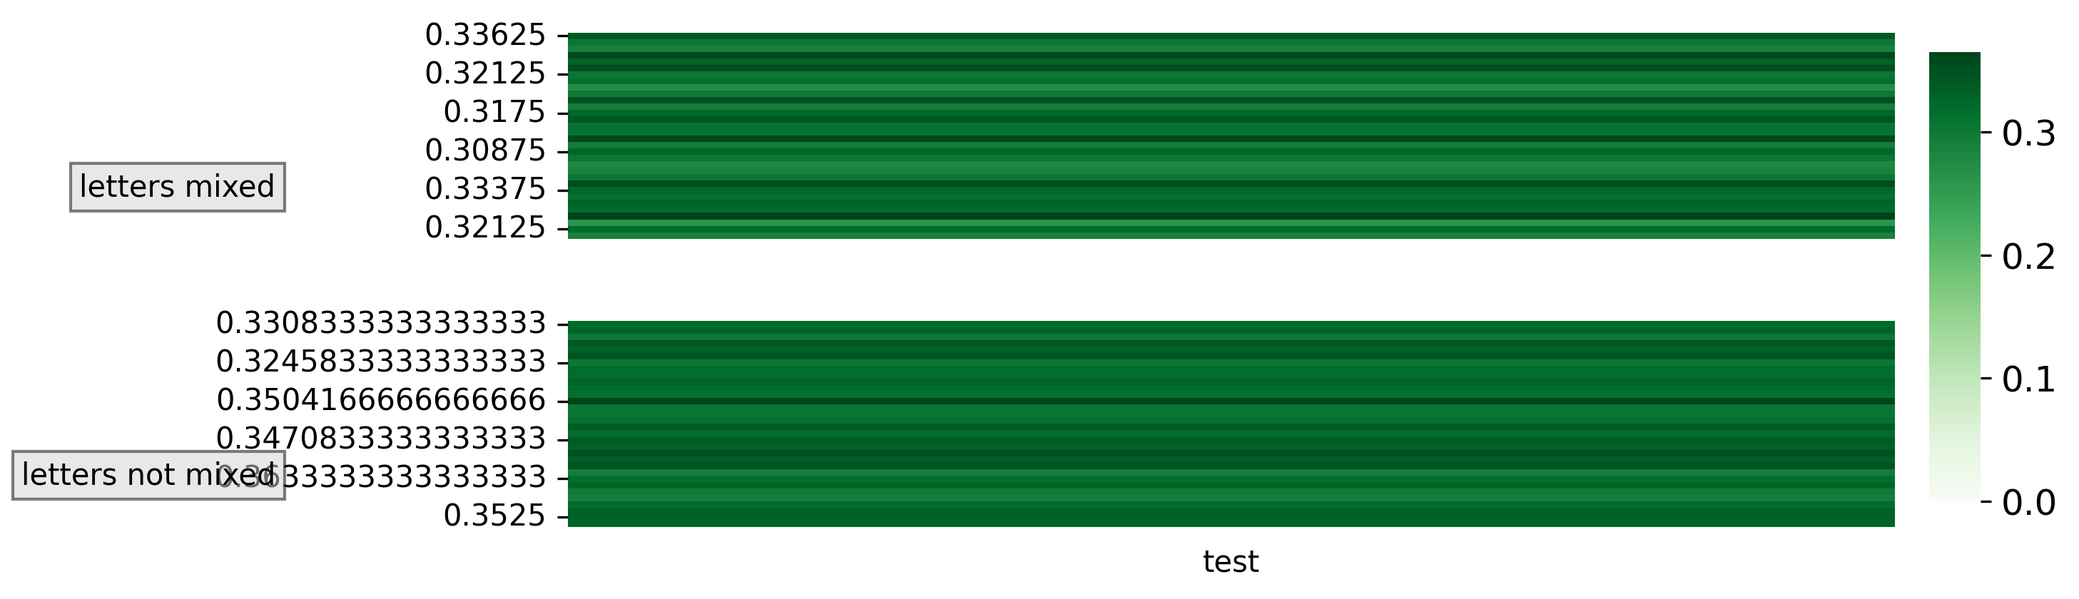
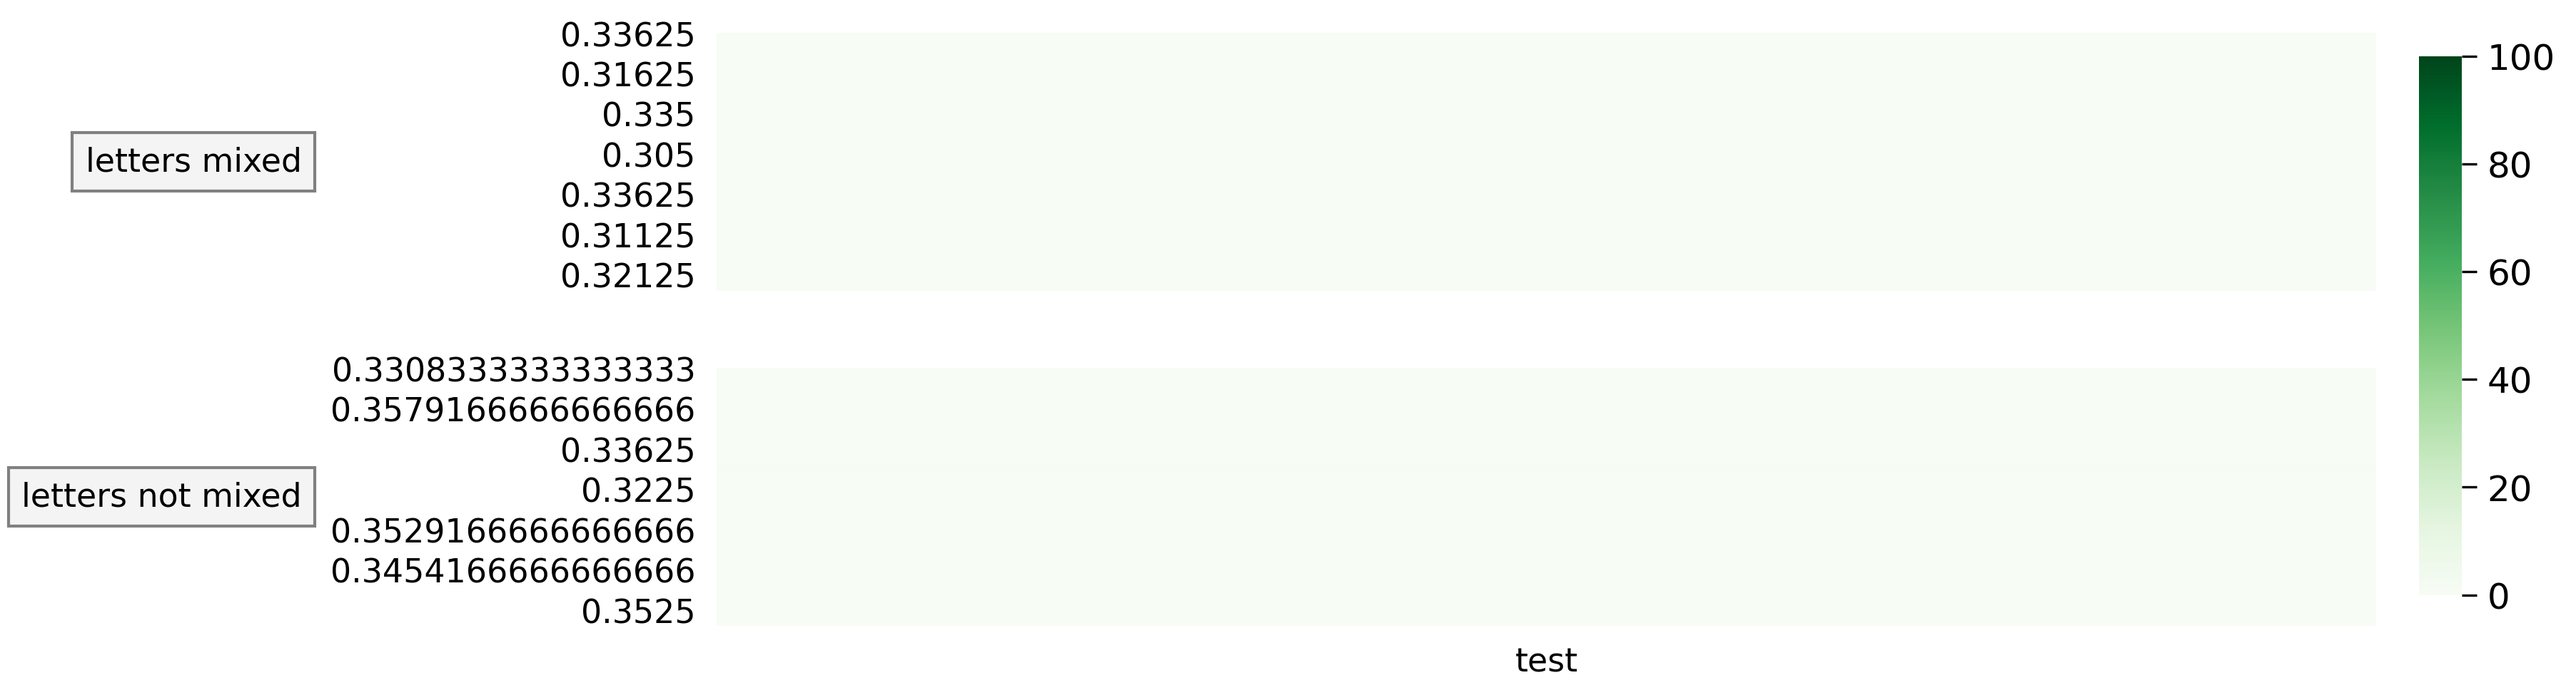
maybe now its nice

diff --git a/heatmap.py b/heatmap.py
@@ -21,15 +21,17 @@ file_paths = {
 
 num_plots = len(file_paths)
 
+# Made figure slightly wider for better proportions
 fig, axes = plt.subplots(
     nrows=num_plots, 
     ncols=1, 
-    figsize=(8, 1.5 * num_plots),
+    figsize=(10, 1.8 * num_plots),
     sharex=True, 
-    gridspec_kw={'hspace': 0.4}
+    gridspec_kw={'hspace': 0.3} # Tighter vertical spacing
 )
 
-cbar_ax = fig.add_axes([0.92, 0.15, 0.03, 0.7]) 
+# Shared colorbar axis: [left, bottom, width, height]
+cbar_ax = fig.add_axes([0.92, 0.15, 0.02, 0.7]) 
 
 for i, (label_box, file_path) in enumerate(file_paths.items()):
     print(f"Status: Processing '{label_box}' from {file_path}...")
@@ -41,39 +43,46 @@ for i, (label_box, file_path) in enumerate(file_paths.items()):
     # Draw the heatmap
     sns.heatmap(
         df, 
-        #ax=ax, 
+        ax=ax,             # FIXED: Re-enabled explicitly targeting the subplot
         cmap="Greens",     
         vmin=0,            
-        #cbar=(i == 0),     
-        #cbar_ax=cbar_ax if i == 0 else None,
-        cbar_ax = ax
-        linewidths=0       
+        vmax=100,          # Enforces the 0-100 scale
+        cbar=(i == 0),     # Only attach to the first iteration
+        cbar_ax=cbar_ax if i == 0 else None,
+        linewidths=0,
+        cbar_kws={'ticks': [0, 20, 40, 60, 80, 100]} # Match reference image ticks
     )
     
     # Styling the Y-axis
     ax.set_ylabel('') 
-    ax.tick_params(axis='y', left=True, rotation=0, labelsize=10)
+    # Remove the little tick marks but keep the text, horizontal rotation
+    ax.tick_params(axis='y', left=False, rotation=0, labelsize=11)
     
     # Adding the Left Box Label
     ax.text(
-        x=-0.22, 
-        y=0.25,  
+        x=-0.25, # Push left
+        y=0.5,   # Vertically centered
         s=label_box, 
         transform=ax.transAxes,
-        fontsize=10,
+        fontsize=11,
         ha='right', 
         va='center',
-        bbox=dict(facecolor='lightgrey', edgecolor='black', boxstyle='square,pad=0.3', alpha=0.5)
+        # Styled to match the neat grey boxes in the reference
+        bbox=dict(facecolor='#f4f4f4', edgecolor='grey', boxstyle='square,pad=0.4')
     )
 
     # Styling the X-axis
     ax.set_xlabel('')
     if i == num_plots - 1:
-        ax.tick_params(axis='x', bottom=False, top=False, labelbottom=True, rotation=0, labelsize=10)
+        # Bottom plot: hide tick marks, show labels flat
+        ax.tick_params(axis='x', bottom=False, labelbottom=True, rotation=0, labelsize=11)
     else:
-        ax.tick_params(axis='x', bottom=False, top=False, labelbottom=False)
+        # Upper plots: completely hide
+        ax.tick_params(axis='x', bottom=False, labelbottom=False)
 
-cbar_ax.tick_params(labelsize=12, right=True, direction='out')
+# Styling the Colorbar
+cbar_ax.tick_params(labelsize=12, right=True, length=5, direction='out')
+cbar_ax.spines['outline'].set_visible(False) # Removes the box around the colorbar
 
 print("Status: Plot generated, attempting to save...")
 
